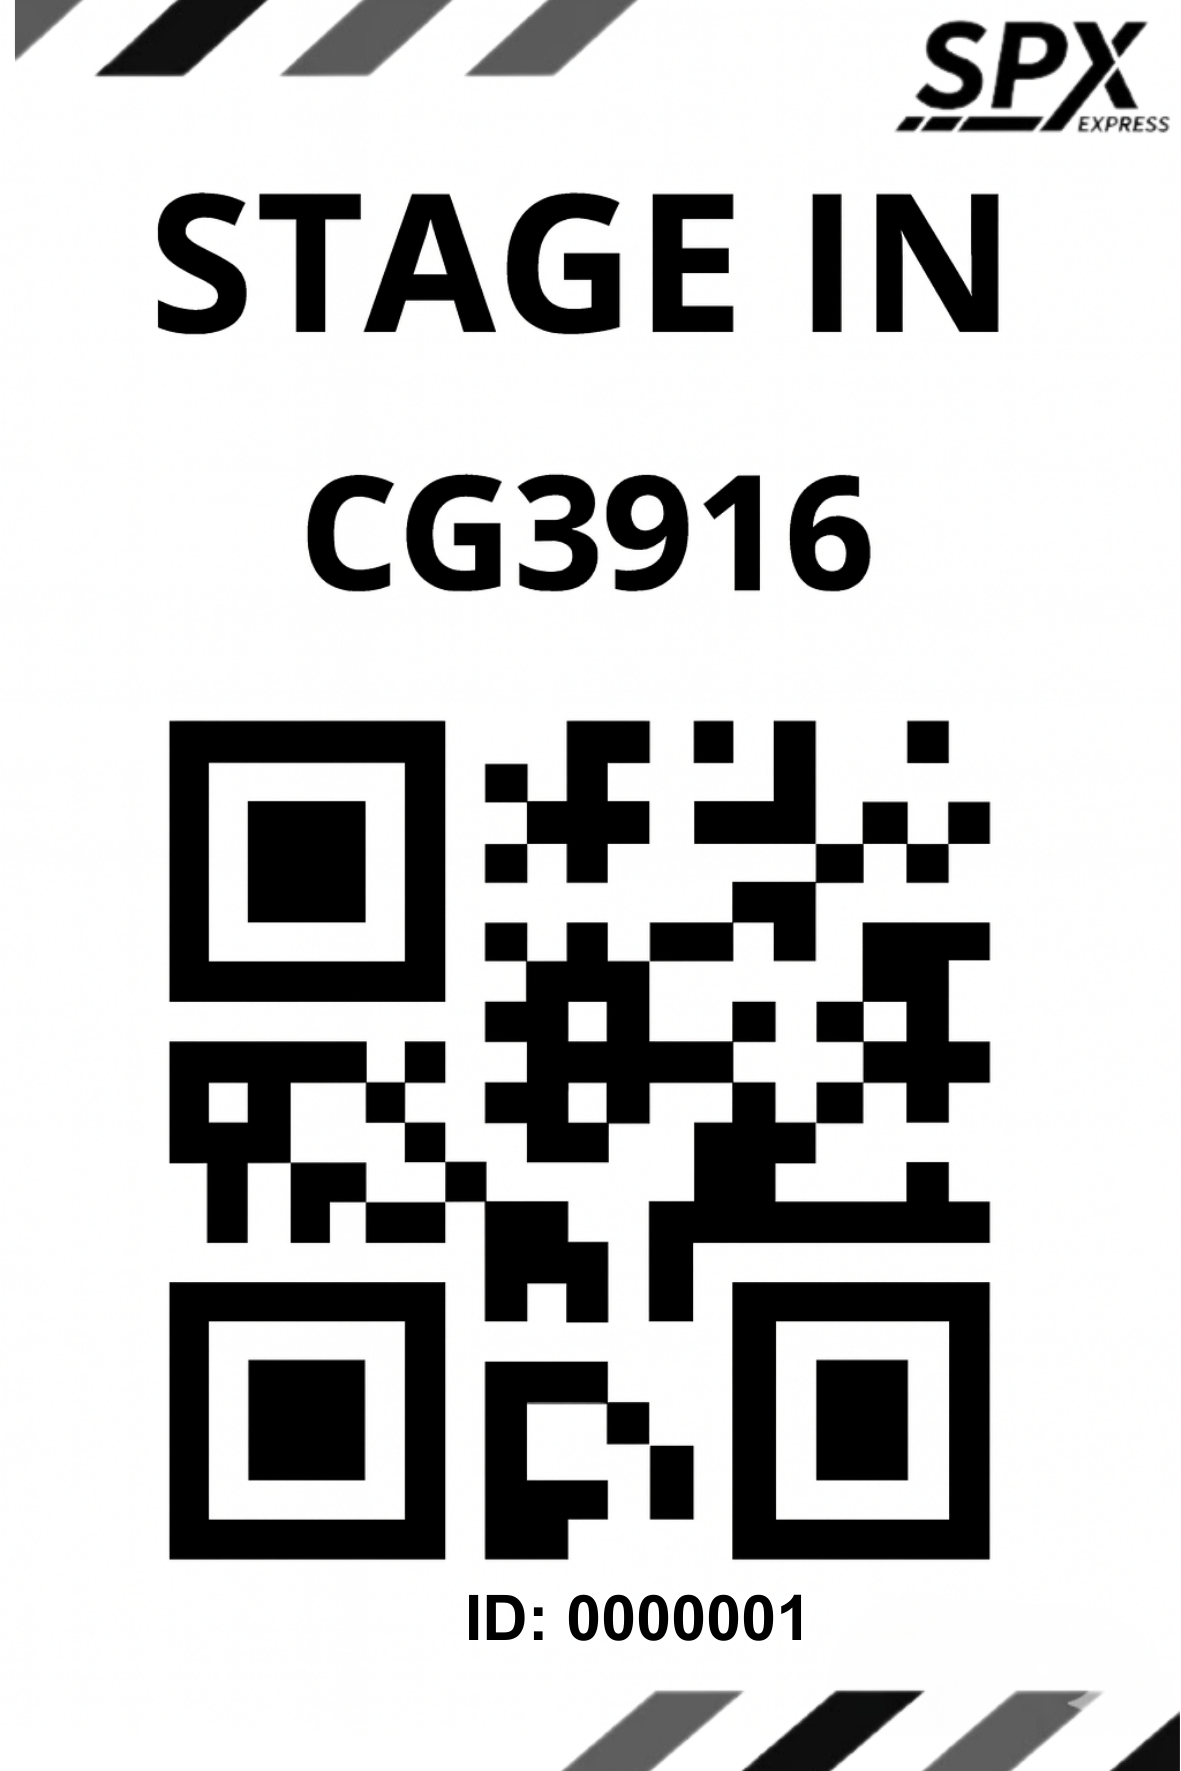
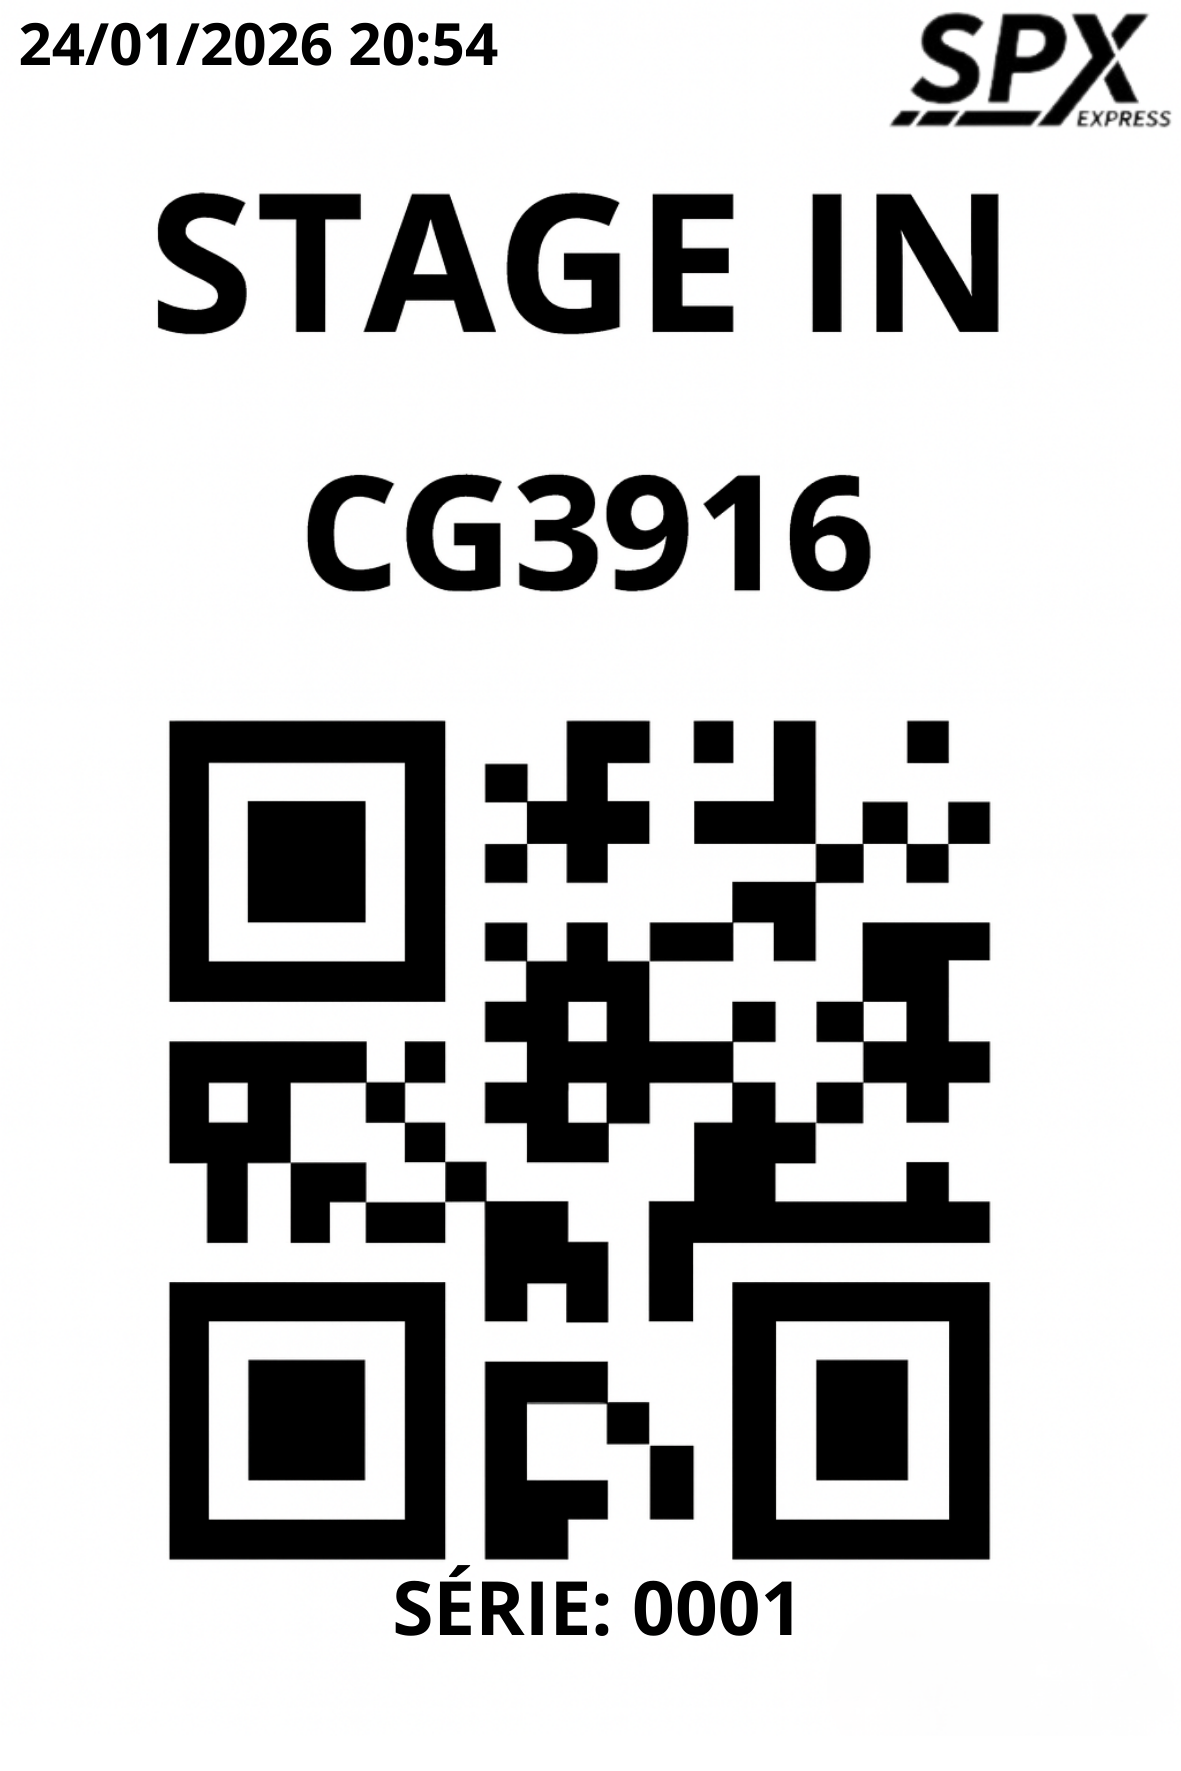
fix(fifo): correct preview bug, update label layout, add pagination
- Fix: clear searchResult when clicking table to show preview
- Update: use FifoLabel component with CG_PADRAO layout (datetime, STAGE IN, code, QR, serie)
- Add: pagination (15 items) for linked/unlinked tables
- Update: LabelWrapper with bgType prop for QRCode background

diff --git a/src/app/fifo/page.tsx b/src/app/fifo/page.tsx
@@ -15,6 +15,30 @@ type FifoData = {
 
 type TabType = 'buscar' | 'gerar' | 'lote' | 'vincular';
 
+// Componente de Etiqueta FIFO reutilizável (Layout CG_PADRAO)
+const FifoLabel = ({ data, printDateTime }: { data: FifoData; printDateTime: string }) => (
+    <LabelWrapper orientation="portrait" bgType="qrcode">
+        <div className="flex flex-col items-center justify-between w-full h-full py-4">
+            {/* Header: Data/Hora (logo SPX já está no background) */}
+            <div className="w-full flex justify-start px-2">
+                <span className="text-sm font-bold text-black font-open-sans">{printDateTime}</span>
+            </div>
+
+            {/* Título STAGE IN */}
+            <h1 className="text-5xl font-black font-open-sans tracking-tight text-black">STAGE IN</h1>
+
+            {/* Código da Gaiola */}
+            <h2 className="text-3xl font-bold font-open-sans text-black">{data.qrcode}</h2>
+
+            {/* QRCode */}
+            <QRCodeSVG value={data.qrcode} size={180} level="H" />
+
+            {/* Série */}
+            <p className="text-xl font-bold font-open-sans text-black">SÉRIE: {data.serie}</p>
+        </div>
+    </LabelWrapper>
+);
+
 export default function FifoPage() {
     // === AUTENTICAÇÃO ===
     const [isAuthenticated, setIsAuthenticated] = useState(false);
@@ -77,6 +101,11 @@ export default function FifoPage() {
     const [unlinkedData, setUnlinkedData] = useState<FifoData[]>([]);
     const [linkedData, setLinkedData] = useState<FifoData[]>([]);
     const [loadingLinkTable, setLoadingLinkTable] = useState(false);
+
+    // Paginação das tabelas de vinculados
+    const [unlinkedPage, setUnlinkedPage] = useState(1);
+    const [linkedPage, setLinkedPage] = useState(1);
+    const LINK_PAGE_SIZE = 15;
 
     // Carregar dados de vinculação
     const loadLinkData = async () => {
@@ -685,7 +714,10 @@ export default function FifoPage() {
                                     {tableData.map((row, idx) => (
                                         <tr
                                             key={row.qrcode + idx}
-                                            onClick={() => setSelectedFromTable(row)}
+                                            onClick={() => {
+                                                setSelectedFromTable(row);
+                                                setSearchResult(null); // Limpar busca para mostrar preview do espelho
+                                            }}
                                             className={`border-t border-gray-100 dark:border-neutral-700 cursor-pointer hover:bg-gray-100 dark:hover:bg-neutral-700 transition-colors ${!row.id_um && !row.id_dois ? 'bg-amber-50 dark:bg-amber-900/10' : ''} ${selectedFromTable?.qrcode === row.qrcode ? 'ring-2 ring-shopee-primary' : ''}`}
                                         >
                                             <td className="px-2 py-1 font-mono font-bold">{row.qrcode}</td>
@@ -779,7 +811,7 @@ export default function FifoPage() {
                                         </button>
                                     )}
                                 </div>
-                                <div className="max-h-60 overflow-y-auto">
+                                <div className="overflow-x-auto">
                                     <table className="w-full text-sm">
                                         <thead className="bg-gray-50 dark:bg-neutral-700 sticky top-0">
                                             <tr>
@@ -788,7 +820,7 @@ export default function FifoPage() {
                                             </tr>
                                         </thead>
                                         <tbody>
-                                            {unlinkedData.map((row, idx) => (
+                                            {unlinkedData.slice((unlinkedPage - 1) * LINK_PAGE_SIZE, unlinkedPage * LINK_PAGE_SIZE).map((row, idx) => (
                                                 <tr key={`${row.qrcode}-${idx}`} className="border-t border-gray-100 dark:border-neutral-700 hover:bg-gray-50 dark:hover:bg-neutral-700 cursor-pointer" onClick={() => setLinkQrcode(row.qrcode)}>
                                                     <td className="px-4 py-2 font-mono font-bold text-gray-700 dark:text-gray-300">{row.qrcode}</td>
                                                     <td className="px-4 py-2 font-mono text-gray-500">{row.serie}</td>
@@ -797,6 +829,30 @@ export default function FifoPage() {
                                         </tbody>
                                     </table>
                                 </div>
+                                {/* Paginação Não Vinculados */}
+                                {unlinkedData.length > LINK_PAGE_SIZE && (
+                                    <div className="px-4 py-2 border-t border-gray-200 dark:border-neutral-700 flex items-center justify-between text-xs">
+                                        <span className="text-gray-500">
+                                            {((unlinkedPage - 1) * LINK_PAGE_SIZE) + 1}-{Math.min(unlinkedPage * LINK_PAGE_SIZE, unlinkedData.length)} de {unlinkedData.length}
+                                        </span>
+                                        <div className="flex gap-1">
+                                            <button
+                                                onClick={() => setUnlinkedPage(p => Math.max(1, p - 1))}
+                                                disabled={unlinkedPage === 1}
+                                                className="px-2 py-1 rounded bg-gray-100 dark:bg-neutral-700 disabled:opacity-50 cursor-pointer"
+                                            >
+                                                <ChevronLeft className="w-3 h-3" />
+                                            </button>
+                                            <button
+                                                onClick={() => setUnlinkedPage(p => Math.min(Math.ceil(unlinkedData.length / LINK_PAGE_SIZE), p + 1))}
+                                                disabled={unlinkedPage >= Math.ceil(unlinkedData.length / LINK_PAGE_SIZE)}
+                                                className="px-2 py-1 rounded bg-gray-100 dark:bg-neutral-700 disabled:opacity-50 cursor-pointer"
+                                            >
+                                                <ChevronRight className="w-3 h-3" />
+                                            </button>
+                                        </div>
+                                    </div>
+                                )}
                             </div>
 
                             {/* Tabela 2: Gaiolas COM VÍNCULO */}
@@ -805,7 +861,7 @@ export default function FifoPage() {
                                     <span className="font-bold text-blue-700 dark:text-blue-400">✅ Gaiolas COM Vínculo</span>
                                     <span className="text-xs bg-blue-200 dark:bg-blue-700 text-blue-900 dark:text-blue-100 px-2 py-0.5 rounded-full">{linkedData.length}</span>
                                 </div>
-                                <div className="max-h-96 overflow-y-auto">
+                                <div className="overflow-x-auto">
                                     <table className="w-full text-sm">
                                         <thead className="bg-gray-50 dark:bg-neutral-700 sticky top-0">
                                             <tr>
@@ -816,7 +872,7 @@ export default function FifoPage() {
                                             </tr>
                                         </thead>
                                         <tbody>
-                                            {linkedData.map((row, idx) => (
+                                            {linkedData.slice((linkedPage - 1) * LINK_PAGE_SIZE, linkedPage * LINK_PAGE_SIZE).map((row, idx) => (
                                                 <tr key={`${row.qrcode}-${idx}`} className="border-t border-gray-100 dark:border-neutral-700 hover:bg-gray-50 dark:hover:bg-neutral-700">
                                                     <td className="px-4 py-2 font-mono font-bold text-gray-700 dark:text-gray-300">{row.qrcode}</td>
                                                     <td className="px-4 py-2 truncate max-w-[100px]">{row.id_um}</td>
@@ -824,7 +880,7 @@ export default function FifoPage() {
                                                     <td className="px-4 py-2 text-center">
                                                         <button
                                                             onClick={() => handleClearId(row.qrcode)}
-                                                            className="p-1.5 text-red-500 hover:bg-red-50 dark:hover:bg-red-900/30 rounded transition-colors"
+                                                            className="p-1.5 text-red-500 hover:bg-red-50 dark:hover:bg-red-900/30 rounded transition-colors cursor-pointer"
                                                             title="Limpar IDs"
                                                         >
                                                             <Trash2 className="w-4 h-4" />
@@ -835,6 +891,30 @@ export default function FifoPage() {
                                         </tbody>
                                     </table>
                                 </div>
+                                {/* Paginação Vinculados */}
+                                {linkedData.length > LINK_PAGE_SIZE && (
+                                    <div className="px-4 py-2 border-t border-gray-200 dark:border-neutral-700 flex items-center justify-between text-xs">
+                                        <span className="text-gray-500">
+                                            {((linkedPage - 1) * LINK_PAGE_SIZE) + 1}-{Math.min(linkedPage * LINK_PAGE_SIZE, linkedData.length)} de {linkedData.length}
+                                        </span>
+                                        <div className="flex gap-1">
+                                            <button
+                                                onClick={() => setLinkedPage(p => Math.max(1, p - 1))}
+                                                disabled={linkedPage === 1}
+                                                className="px-2 py-1 rounded bg-gray-100 dark:bg-neutral-700 disabled:opacity-50 cursor-pointer"
+                                            >
+                                                <ChevronLeft className="w-3 h-3" />
+                                            </button>
+                                            <button
+                                                onClick={() => setLinkedPage(p => Math.min(Math.ceil(linkedData.length / LINK_PAGE_SIZE), p + 1))}
+                                                disabled={linkedPage >= Math.ceil(linkedData.length / LINK_PAGE_SIZE)}
+                                                className="px-2 py-1 rounded bg-gray-100 dark:bg-neutral-700 disabled:opacity-50 cursor-pointer"
+                                            >
+                                                <ChevronRight className="w-3 h-3" />
+                                            </button>
+                                        </div>
+                                    </div>
+                                )}
                             </div>
                         </div>
                     )}
@@ -842,39 +922,14 @@ export default function FifoPage() {
                     {/* Single Label Preview - Apenas se NÃO estiver em 'vincular' */}
                     {/* Preview da Tabela Espelho */}
                     {selectedFromTable && !searchResult && activeTab !== 'lote' && activeTab !== 'gerar' && (
-                        <div className="print:hidden">
-                            <div className="text-center text-sm text-gray-500 mb-2">Clique para visualizar</div>
-                            <LabelWrapper orientation="portrait">
-                                <div className="flex flex-col items-center justify-center w-full h-full">
-                                    <h1 className="text-4xl font-bold font-open-sans tracking-tight mb-6">STAGE IN</h1>
-                                    <QRCodeSVG value={selectedFromTable.qrcode} size={200} level="H" />
-                                    <h2 className="text-2xl font-bold font-open-sans mt-4 text-black">
-                                        {selectedFromTable.qrcode}
-                                    </h2>
-                                    <p className="text-xl font-bold font-open-sans mt-2 text-black">
-                                        SÉRIE: {selectedFromTable.serie}
-                                    </p>
-                                </div>
-                            </LabelWrapper>
+                        <div>
+                            <div className="text-center text-sm text-gray-500 mb-2 print:hidden">Clique para visualizar</div>
+                            <FifoLabel data={selectedFromTable} printDateTime={printDateTime} />
                         </div>
                     )}
 
                     {activeTab === 'buscar' && searchResult && (
-                        <LabelWrapper orientation="portrait">
-                            <div className="flex flex-col items-center justify-center w-full h-full">
-                                <h1 className="text-4xl font-bold font-open-sans tracking-tight mb-6">STAGE IN</h1>
-                                <QRCodeSVG value={searchResult.qrcode} size={200} level="H" />
-                                <h2 className="text-2xl font-bold font-open-sans mt-4 text-black">
-                                    {searchResult.qrcode}
-                                </h2>
-                                <p className="text-xl font-bold font-open-sans mt-2 text-black">
-                                    SÉRIE: {searchResult.serie}
-                                </p>
-                                <p className="text-xs text-gray-400 mt-4 print:block hidden">
-                                    Impresso em: {printDateTime}
-                                </p>
-                            </div>
-                        </LabelWrapper>
+                        <FifoLabel data={searchResult} printDateTime={printDateTime} />
                     )}
 
                     {/* Batch Print Preview */}
@@ -882,21 +937,7 @@ export default function FifoPage() {
                         <div className="space-y-4 print:space-y-0">
                             {batchResults.map((label, idx) => (
                                 <div key={label.qrcode} className={idx < batchResults.length - 1 ? 'print:break-after-page' : ''}>
-                                    <LabelWrapper orientation="portrait">
-                                        <div className="flex flex-col items-center justify-center w-full h-full">
-                                            <h1 className="text-4xl font-bold font-open-sans tracking-tight mb-6">STAGE IN</h1>
-                                            <QRCodeSVG value={label.qrcode} size={200} level="H" />
-                                            <h2 className="text-2xl font-bold font-open-sans mt-4 text-black">
-                                                {label.qrcode}
-                                            </h2>
-                                            <p className="text-xl font-bold font-open-sans mt-2 text-black">
-                                                SÉRIE: {label.serie}
-                                            </p>
-                                            <p className="text-xs text-gray-400 mt-4 print:block hidden">
-                                                Impresso em: {printDateTime}
-                                            </p>
-                                        </div>
-                                    </LabelWrapper>
+                                    <FifoLabel data={label} printDateTime={printDateTime} />
                                 </div>
                             ))}
                         </div>
@@ -907,21 +948,7 @@ export default function FifoPage() {
                         <div className="space-y-4 print:space-y-0">
                             {generatedLabels.map((label, idx) => (
                                 <div key={label.qrcode} className={idx < generatedLabels.length - 1 ? 'print:break-after-page' : ''}>
-                                    <LabelWrapper orientation="portrait">
-                                        <div className="flex flex-col items-center justify-center w-full h-full">
-                                            <h1 className="text-4xl font-bold font-open-sans tracking-tight mb-6">STAGE IN</h1>
-                                            <QRCodeSVG value={label.qrcode} size={200} level="H" />
-                                            <h2 className="text-2xl font-bold font-open-sans mt-4 text-black">
-                                                {label.qrcode}
-                                            </h2>
-                                            <p className="text-xl font-bold font-open-sans mt-2 text-black">
-                                                SÉRIE: {label.serie}
-                                            </p>
-                                            <p className="text-xs text-gray-400 mt-4 print:block hidden">
-                                                Impresso em: {printDateTime}
-                                            </p>
-                                        </div>
-                                    </LabelWrapper>
+                                    <FifoLabel data={label} printDateTime={printDateTime} />
                                 </div>
                             ))}
                         </div>

diff --git a/src/components/LabelAssets.tsx b/src/components/LabelAssets.tsx
@@ -3,16 +3,26 @@ import Image from 'next/image';
 interface LabelWrapperProps {
     orientation: 'landscape' | 'portrait';
     children: React.ReactNode;
+    bgType?: 'default' | 'qrcode';
 }
 
-export const LabelWrapper = ({ orientation, children }: LabelWrapperProps) => {
+export const LabelWrapper = ({ orientation, children, bgType = 'default' }: LabelWrapperProps) => {
     const isLandscape = orientation === 'landscape';
 
     // Landscape: 150mm x 100mm -> approx 567px x 378px
     // Portrait: 100mm x 150mm -> approx 378px x 567px
     const width = isLandscape ? '567px' : '378px';
     const height = isLandscape ? '378px' : '567px';
-    const bgImage = isLandscape ? '/assets/referencia/label-bg-landscape.png' : '/assets/referencia/label-bg-portrait.png';
+
+    // Selecionar background baseado no tipo
+    let bgImage: string;
+    if (isLandscape) {
+        bgImage = '/assets/referencia/label-bg-landscape.png';
+    } else {
+        bgImage = bgType === 'qrcode'
+            ? '/assets/referencia/label-bg-qrcode-portrait.png'
+            : '/assets/referencia/label-bg-portrait.png';
+    }
 
     return (
         <div
